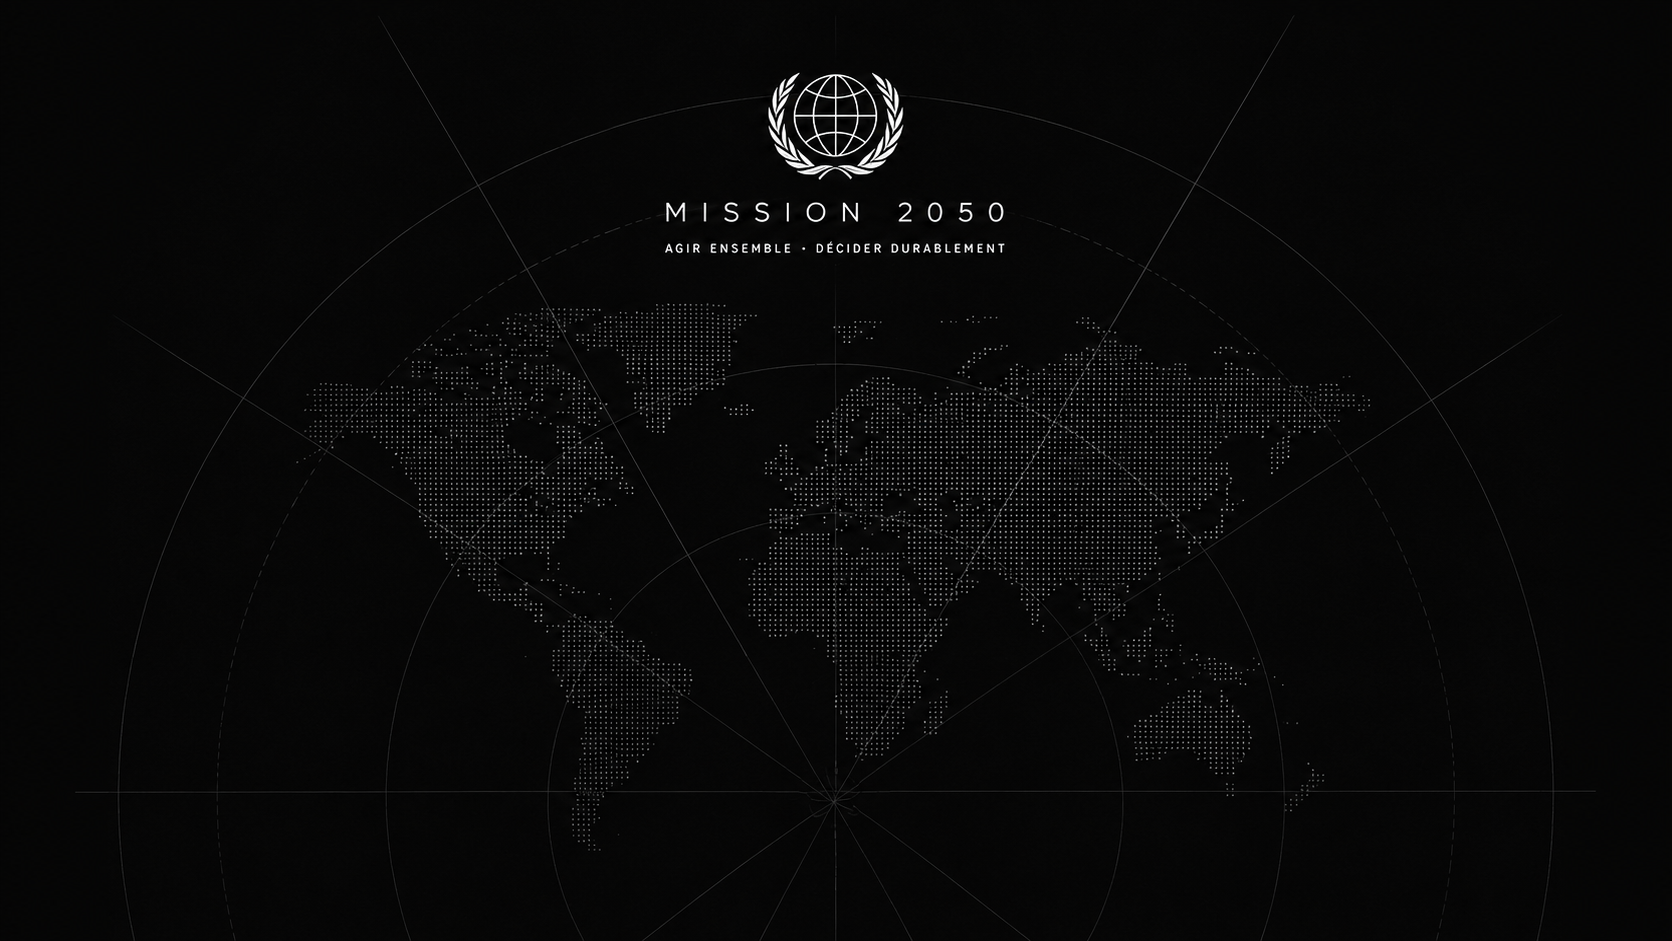
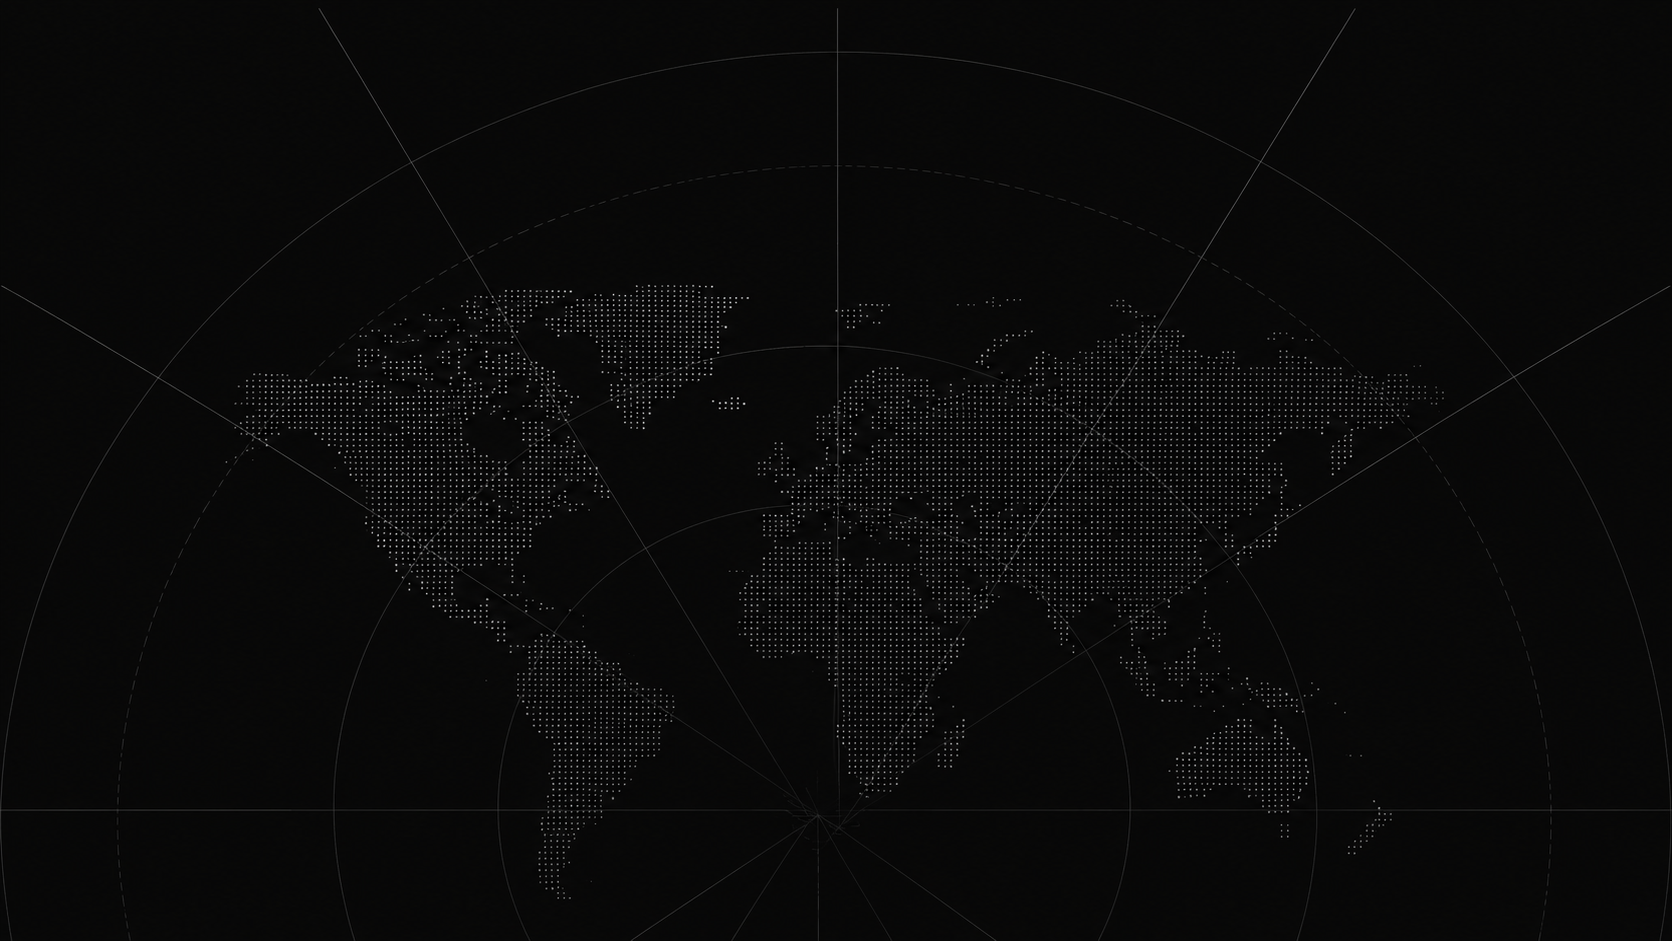
Update configuration background image

diff --git a/index.html b/index.html
@@ -88,7 +88,7 @@
       background-position: center;
       background-size: cover;
       background-repeat: no-repeat;
-      opacity: 0.1;
+      opacity: 0.16;
       pointer-events: none;
     }
 

diff --git a/service-worker.js b/service-worker.js
@@ -1,4 +1,4 @@
-const CACHE_NAME = "mission-2050-v3";
+const CACHE_NAME = "mission-2050-v4";
 const APP_ASSETS = [
   "./",
   "./index.html",
